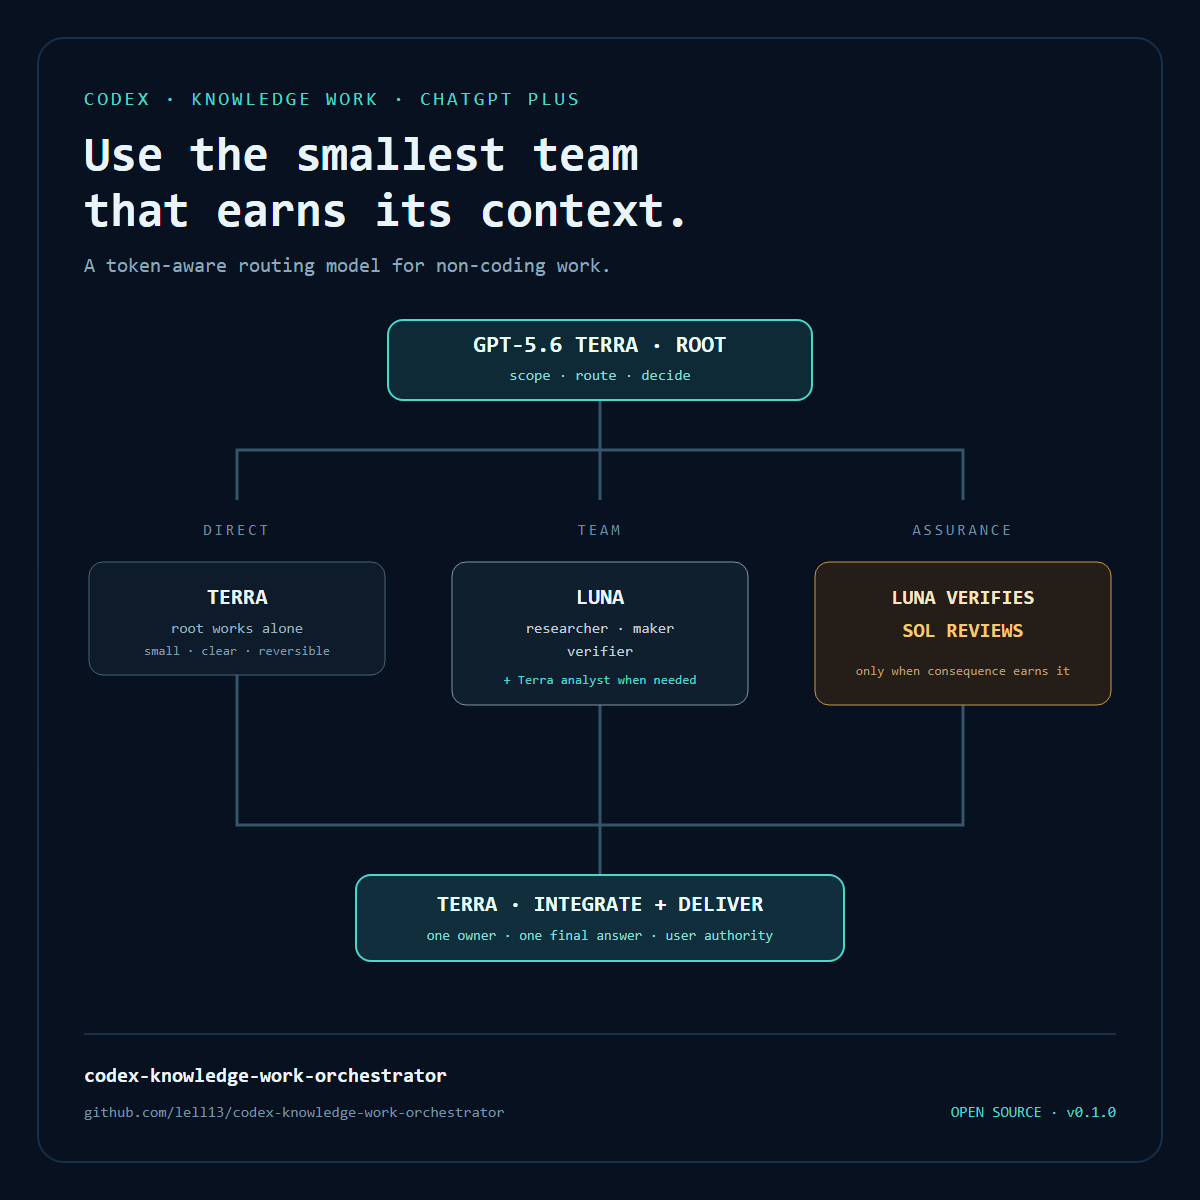
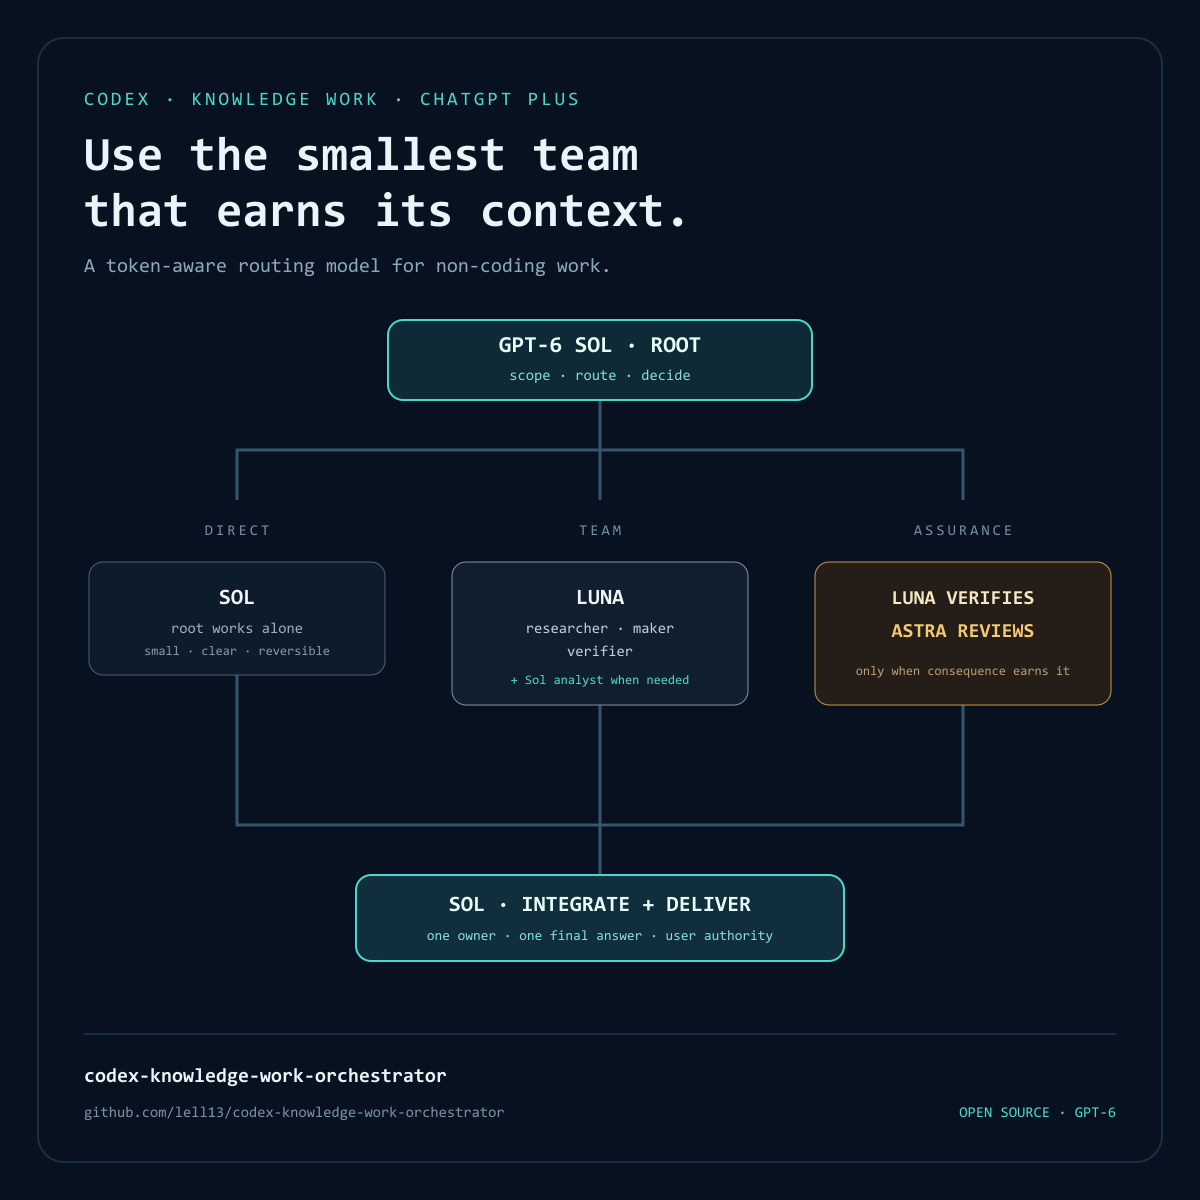
Update knowledge-work routing for GPT-6 Astra Sol Luna

diff --git a/scripts/validate.py b/scripts/validate.py
@@ -10,7 +10,7 @@ from pathlib import Path
 ROOT = Path(__file__).resolve().parents[1]
 PROFILES = ("plus-efficient", "plus-economy", "plus-quality")
 ROLES = ("researcher", "analyst", "maker", "verifier", "reviewer")
-MODELS = {"gpt-5.6-luna", "gpt-5.6-terra", "gpt-5.6-sol"}
+MODELS = {"gpt-6-luna", "gpt-6-sol", "gpt-6-astra"}
 EFFORTS = {"low", "medium", "high", "xhigh", "max"}
 
 

diff --git a/README.md b/README.md
@@ -18,7 +18,7 @@ It was created for people like its author: professionals who want to use Codex s
 
 The default strategy is deliberately economical:
 
-> **Start with Terra. Delegate bounded work to Luna. Escalate judgment to Sol.**
+> **Start direct with Sol. Delegate bounded work to Luna. Use Astra only when the decision needs it.**
 
 ## Why this exists
 
@@ -26,9 +26,9 @@ Using the strongest model for every step feels safe, but it can exhaust a Plus a
 
 This project offers a practical middle ground: reserve expensive judgment for the moments that need it and use lighter models for focused execution. The orchestrator chooses the smallest team that can materially improve the result.
 
-- **Terra** keeps the goal, makes routing decisions, and integrates the final deliverable.
+- **Sol** keeps the goal, makes routing decisions, and integrates the final deliverable.
 - **Luna** handles focused research, production, extraction, and verification.
-- **Sol** enters only when ambiguity, consequence, or independent review earns the additional cost.
+- **Astra** enters only when ambiguity, consequence, or independent review earns the additional usage.
 - **The user** keeps final authority over publication, external communication, spending, permissions, and irreversible actions.
 
 This approach is designed to reduce avoidable usage; it cannot guarantee a fixed token saving or a specific number of additional messages. Task size, context, tools, model behavior, and product limits all affect actual usage.
@@ -45,8 +45,8 @@ This approach is designed to reduce avoidable usage; it cannot guarantee a fixed
 | Principle | What the orchestrator does |
 | --- | --- |
 | Start small | Uses Direct mode unless delegation has a concrete benefit |
-| Match model to work | Routes routine execution to Luna and everyday judgment to Terra |
-| Escalate on evidence | Uses Sol only for ambiguity, consequence, or useful independent review |
+| Match model to work | Routes routine execution to Luna and everyday judgment to Sol |
+| Escalate on evidence | Uses Astra only for difficult synthesis, material consequence, or useful independent review |
 | Keep context lean | Gives each specialist only the files and instructions required for its assignment |
 | Stop when done | Avoids repeated research, reviews, and tests after the acceptance criteria pass |
 
@@ -70,14 +70,14 @@ The root classifies every request before delegating:
 
 | Role | Model | Reasoning | Purpose |
 | --- | --- | --- | --- |
-| Root | GPT-5.6 Terra | medium | Scope, route, decide, integrate |
-| Researcher | GPT-5.6 Luna | medium | Find and extract evidence |
-| Maker | GPT-5.6 Luna | medium | Produce bounded artifacts |
-| Verifier | GPT-5.6 Luna | low | Check requirements and consistency |
-| Analyst | GPT-5.6 Terra | medium | Handle judgment-heavy analysis |
-| Reviewer | GPT-5.6 Sol | low | Review material risk independently |
+| Root | GPT-6 Sol | medium | Scope, route, decide, integrate |
+| Researcher | GPT-6 Luna | medium | Find and extract evidence |
+| Maker | GPT-6 Luna | medium | Produce bounded artifacts |
+| Verifier | GPT-6 Luna | low | Check requirements and consistency |
+| Analyst | GPT-6 Sol | medium | Handle judgment-heavy analysis when a separate pass helps |
+| Reviewer | GPT-6 Astra | medium | Review material risk independently when needed |
 
-Sol review is conditional. The orchestrator does not spawn every role mechanically.
+Astra review is conditional. The orchestrator does not spawn every role mechanically. A root-only run is often the most efficient path.
 
 ## Install
 
@@ -114,9 +114,9 @@ The installer adds project-scoped Codex configuration and the `knowledge-work-or
 
 Available profiles:
 
-- `plus-efficient`: Terra root, Luna specialists, conditional Sol review. Recommended.
-- `plus-economy`: Luna root and specialists, conditional Terra analysis/review.
-- `plus-quality`: Sol root, Luna/Terra specialists, conditional Sol review.
+- `plus-efficient`: Sol root, Luna specialists, conditional Astra review. Recommended.
+- `plus-economy`: Luna root and specialists, conditional Sol analysis/review.
+- `plus-quality`: Astra root, Luna/Sol specialists, conditional Sol review.
 
 Read [Choosing a profile](docs/choosing-a-profile.md) for the trade-offs.
 For the rationale behind each assignment, see [Model selection](docs/model-selection.md).

diff --git a/docs/model-selection.md b/docs/model-selection.md
@@ -1,23 +1,26 @@
 # Model selection
 
-The profiles follow a simple rule: use the least expensive model that can reliably own the decision at hand.
+These profiles target the GPT-6 Astra, Sol, and Luna lineup. The rule is to meet a quality target first, then use the lightest model and reasoning setting that reliably meets it. This is a routing hypothesis to test, not a promise of token savings.
 
-## Roles in the current Codex lineup
-
-| Model | Best fit in this project | Avoid using it for |
+| Model | Best fit here | Typical starting effort |
 | --- | --- | --- |
-| GPT-5.6 Luna | Fast, bounded execution: retrieval, extraction, drafting, and checklist verification | Owning ambiguous or consequential decisions by default |
-| GPT-5.6 Terra | Everyday judgment: orchestration, analysis, synthesis, and artifact integration | Repeating high-volume mechanical work that Luna can handle |
-| GPT-5.6 Sol | Hard reasoning and independent review when the consequence justifies escalation | Routine production or mandatory review of every task |
+| GPT-6 Luna | Focused retrieval, extraction, formatting, bounded production, and checklist verification | low for checks; medium for clear briefs |
+| GPT-6 Sol | Everyday root coordination, writing, analysis, synthesis, and integration | medium |
+| GPT-6 Astra | Hard cross-source synthesis, ambiguous or consequential decisions, and independent challenge when the benefit is material | medium |
 
-The recommended `plus-efficient` profile therefore uses Terra as the root, Luna for most specialists, and Sol as a conditional reviewer.
+The recommended `plus-efficient` profile uses Sol as the root, Luna for bounded specialists, and Astra as a conditional reviewer. The `plus-economy` profile uses a Luna root with conditional Sol escalation. The `plus-quality` profile uses Astra as the root for unusually demanding work.
 
-## Why not spawn every role?
+## Route before delegating
 
-Agent count is not a quality metric. Each delegation adds a handoff, consumes context, and creates another result the root must reconcile. A role should enter only when it improves speed, evidence, specialization, or assurance.
+1. Use **Direct** for a coherent request the root can finish and verify.
+2. Use **Team** only when an independent, bounded workstream improves speed, evidence, or quality.
+3. Use **Assurance** when a targeted verifier or independent reviewer would catch a material failure.
+4. Escalate model or effort only after a concrete signal: conflicting evidence, unresolved ambiguity, failed verification, or meaningful consequence.
 
-## ChatGPT Plus context
+An analyst on the same model as the root is useful only when a separate evidence or calculation pass is genuinely independent. Agent count is not a quality metric; each delegation adds context and a handoff.
 
-OpenAI currently lists Luna, Terra, and Sol as included with ChatGPT Plus. Published usage ranges are estimates, can vary by task, and should not be treated as guaranteed quotas. For current availability and limits, use the official [ChatGPT pricing and usage page](https://learn.chatgpt.com/docs/pricing).
+## ChatGPT Plus and availability
 
-Model capabilities and product limits can change. Profiles in this repository are versioned assumptions, not permanent claims about the platform.
+OpenAI's [Codex model selection guide](https://developers.openai.com/api/docs/guides/model-selection) presents Luna, Sol, and Astra as the current three-tier choice. Its [pricing and usage page](https://learn.chatgpt.com/docs/pricing) lists GPT-6 Sol and Luna in Plus and includes estimated GPT-6 Astra usage in its Plus table. That page also retains credit-rate entries for GPT-5.6 Terra; the presence of a legacy rate does not mean Terra should remain in this repository's active profiles.
+
+Published message ranges are estimates, not fixed quotas. Availability can differ by account, surface, rollout, and time. Check the model selector and usage dashboard before installing a profile. An API price is separate from the included ChatGPT Plus allowance.

diff --git a/skills/knowledge-work-orchestrator/SKILL.md b/skills/knowledge-work-orchestrator/SKILL.md
@@ -27,8 +27,8 @@ Treat available context and agent turns as a budget.
 
 - Load only the sources required for the current outcome.
 - Do not send full project history to a specialist when a scoped brief is sufficient.
-- Prefer Luna for bounded execution and Terra for everyday judgment.
-- Escalate to Sol only after a concrete trigger, not as ceremony.
+- Prefer Luna for bounded execution and Sol for everyday judgment.
+- Escalate to Astra only after a concrete trigger, not as ceremony.
 - Do not repeat searches, reviews, or tests after the acceptance criteria pass unless new evidence or a defect justifies another pass.
 - If two approaches are similarly reliable, choose the one with fewer handoffs and less duplicated context.
 
@@ -89,7 +89,7 @@ Keep concurrent subagents at or below the profile limit. Most Team-mode tasks ne
 
 Verify the deliverable according to its actual type. Read [artifact-verification.md](references/artifact-verification.md) before validating a spreadsheet, presentation, formal document, research report, decision memo, or public content package.
 
-Use a Sol reviewer only when an independent reasoning pass is materially useful. Skip review for routine, reversible work that already has sufficient verification.
+Use the active profile's reviewer only when an independent reasoning pass is materially useful. Skip review for routine, reversible work that already has sufficient verification.
 
 ## Authority boundary
 

diff --git a/docs/choosing-a-profile.md b/docs/choosing-a-profile.md
@@ -2,19 +2,19 @@
 
 ## Plus Efficient
 
-Use `plus-efficient` first. Terra coordinates, Luna performs bounded work, and Sol reviews only when a material trigger exists.
+Use `plus-efficient` first. Sol coordinates, Luna performs bounded work, and Astra reviews only when a material trigger exists. Most requests remain root-only.
 
 Best for mixed professional work: research, reports, documents, spreadsheets, presentations, content, and business operations.
 
 ## Plus Economy
 
-Use `plus-economy` for high-volume, predictable work with clear acceptance criteria. Luna coordinates and executes. Terra enters for judgment-heavy analysis or review.
+Use `plus-economy` for high-volume, predictable work with clear acceptance criteria. Luna coordinates and executes. Sol enters for judgment-heavy analysis or review.
 
 Best for extraction, classification, cataloging, formatting, routine research, and repeated transformations.
 
 ## Plus Quality
 
-Use `plus-quality` when ambiguity and consequence dominate usage efficiency. Sol coordinates, Luna gathers and verifies, and Terra handles artifact production and analysis.
+Use `plus-quality` when ambiguity and consequence dominate usage efficiency. Astra coordinates, Luna gathers and verifies, and Sol handles bounded artifact production, analysis, or independent review.
 
 Best for executive decisions, complex cross-source synthesis, important public deliverables, and difficult analytical work.
 

diff --git a/docs/usage-efficiency.md b/docs/usage-efficiency.md
@@ -12,11 +12,11 @@ The orchestrator controls the parts it can influence:
 2. Load only sources relevant to the current outcome.
 3. Give each specialist a narrow assignment instead of the full project history.
 4. Prefer Luna for bounded, high-volume execution.
-5. Use Terra when the work requires everyday judgment or integration.
-6. Add Sol only when ambiguity, consequence, or an independent challenge justifies it.
+5. Use Sol when the work requires everyday judgment or integration.
+6. Add Astra only when ambiguity, consequence, or an independent challenge justifies it.
 7. Stop researching and verifying after the acceptance criteria pass.
 
-These practices align with OpenAI's current guidance to control prompt size, limit source material, define the required output, keep `AGENTS.md` focused, limit unnecessary MCP servers, and use smaller models for routine tasks. See the official [ChatGPT pricing and usage guidance](https://learn.chatgpt.com/docs/pricing).
+These practices align with OpenAI's guidance to meet a quality target first, then use the lightest model that meets it. Plus usage varies with context, tools, reasoning, and task size. See the official [model selection guide](https://developers.openai.com/api/docs/guides/model-selection) and [ChatGPT pricing and usage guidance](https://learn.chatgpt.com/docs/pricing).
 
 ## What this project does not promise
 

diff --git a/docs/how-it-works.md b/docs/how-it-works.md
@@ -36,12 +36,12 @@ Do not delegate merely because multiple roles exist. Keep concurrent agents to t
 
 Use Assurance mode for consequential outputs: public materials, financial analysis, executive recommendations, sensitive information, conflicting evidence, or changes that are costly to reverse.
 
-Assurance does not require every role. It normally adds one targeted verifier or an independent Sol reviewer after the artifact exists.
+Assurance does not require every role. It normally adds one targeted verifier or an independent reviewer after the artifact exists.
 
 ## Model ladder
 
 - **Luna:** focused retrieval, extraction, formatting, checklist verification, and bounded production.
-- **Terra:** everyday coordination, synthesis, document analysis, and work requiring sound judgment.
-- **Sol:** ambiguous reasoning, high-stakes decisions, and independent review when the consequence justifies it.
+- **Sol:** everyday coordination, synthesis, document analysis, and work requiring judgment.
+- **Astra:** demanding synthesis, ambiguous decisions, and independent review when the consequence justifies it.
 
 Role names remain stable across profiles. Model assignments are profile-specific so the project can adapt without rewriting its operating method.

diff --git a/AGENTS.md b/AGENTS.md
@@ -6,7 +6,7 @@ This repository develops an adaptive Codex orchestration pattern for knowledge w
 - Preserve the principle: use the smallest team that materially improves the result.
 - Treat context, model escalation, and agent turns as a limited user budget.
 - Prefer fewer handoffs and do not repeat passed checks without a concrete reason.
-- Do not make Sol or reviewer invocation mandatory for routine work.
+- Do not make Astra or reviewer invocation mandatory for routine work.
 - Keep role behavior separate from profile model assignments.
 - Treat external actions, publication, spending, permissions, and irreversible changes as approval-gated.
 - Validate profile TOML, skill metadata, links, and examples before claiming completion.

diff --git a/examples/spreadsheet-analysis.md b/examples/spreadsheet-analysis.md
@@ -9,4 +9,4 @@ using them. Flag missing definitions instead of inventing them. Preserve the
 original workbook and create a new reviewed copy if edits are required.
 ```
 
-Expected routing: Team or Assurance mode depending on materiality. A Luna verifier checks formulas and ranges; Terra interprets the business implications. Sol review is reserved for consequential financial decisions.
+Expected routing: Team or Assurance mode depending on materiality. A Luna verifier checks formulas and ranges; Sol interprets the business implications. Astra review is reserved for consequential financial decisions.

diff --git a/examples/executive-decision.md b/examples/executive-decision.md
@@ -10,4 +10,4 @@ assumptions, and the strongest reason not to choose your recommendation.
 Do not send the memo or accept any proposal.
 ```
 
-Expected routing: Assurance mode. Luna extracts comparable facts, Terra performs the decision analysis, the root drafts the memo, and Sol reviews material reasoning or omitted risk before final integration.
+Expected routing: Assurance mode. Luna extracts comparable facts, Sol performs decision analysis, and the root drafts the memo. Add an Astra review only if the reasoning or omitted risk is material enough to justify another pass.

diff --git a/CHANGELOG.md b/CHANGELOG.md
@@ -6,6 +6,13 @@ The format is based on [Keep a Changelog](https://keepachangelog.com/en/1.1.0/),
 
 ## [Unreleased]
 
+### Changed
+
+- Updated active Plus profiles from the GPT-5.6 Luna/Terra/Sol lineup to GPT-6 Luna/Sol/Astra.
+- Set Sol as the default root, Luna as the bounded specialist, and Astra as conditional escalation.
+- Refreshed model guidance, examples, diagrams, and validation to match the three-model lineup.
+- Kept Direct mode as the default for small tasks and preserved the no-guaranteed-savings claim.
+
 ## [0.1.0] - 2026-09-12
 
 ### Added

diff --git a/examples/market-research.md b/examples/market-research.md
@@ -14,4 +14,4 @@ Requirements:
 - do not contact anyone or purchase data
 ```
 
-Expected routing: Team mode with one Luna researcher. Add a Terra analyst only if the evidence requires a separate comparison pass. Sol review is unnecessary unless the memo will support a material investment.
+Expected routing: Team mode with one Luna researcher. Add a Sol analyst only if the evidence requires a separate comparison pass. Astra review is unnecessary unless the memo will support a material investment.
